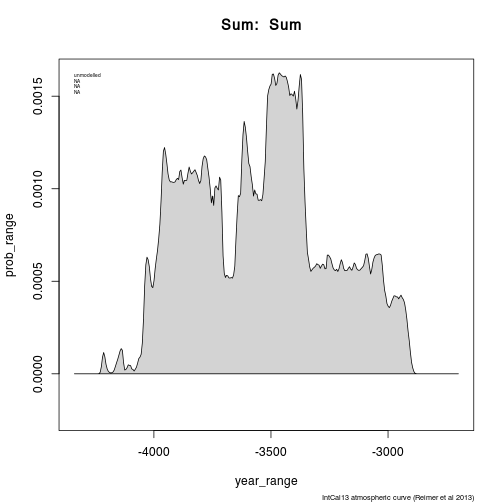
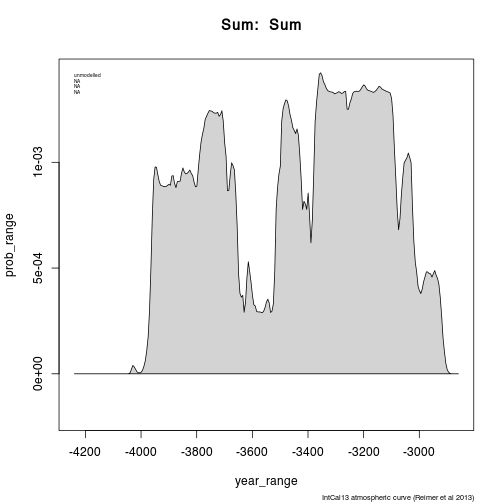
final sample process for last slide

diff --git a/presentation/index.html b/presentation/index.html
@@ -394,7 +394,7 @@ plot(my_result_data)
 
 ```r
 sim_result &lt;- my_bp_dates %&gt;%
-  broom::bootstrap(2) %&gt;%
+  broom::bootstrap(100) %&gt;%
   do(
     oxcalSumSim(
       n = nrow(my_bp_dates),
